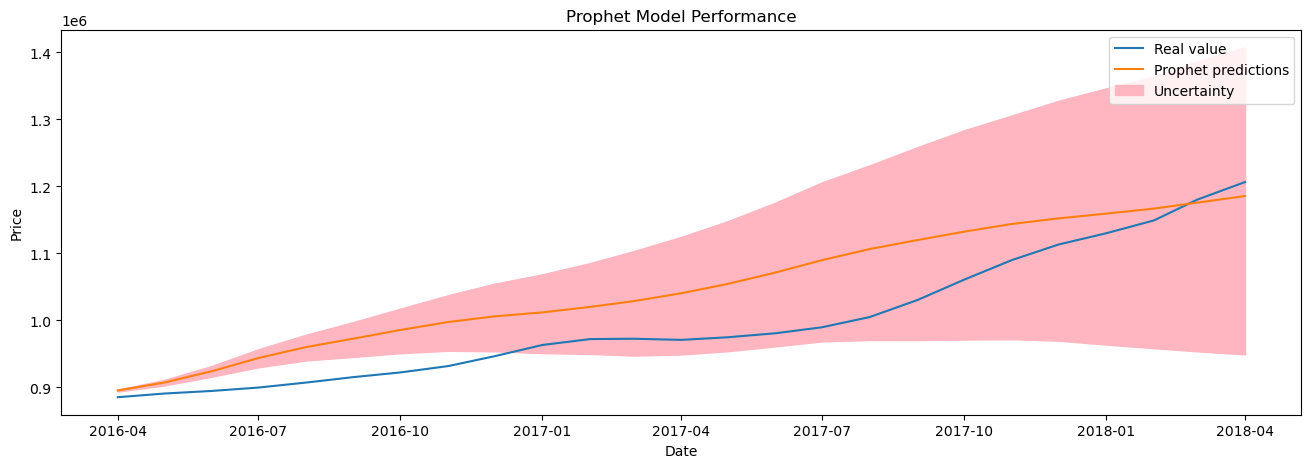
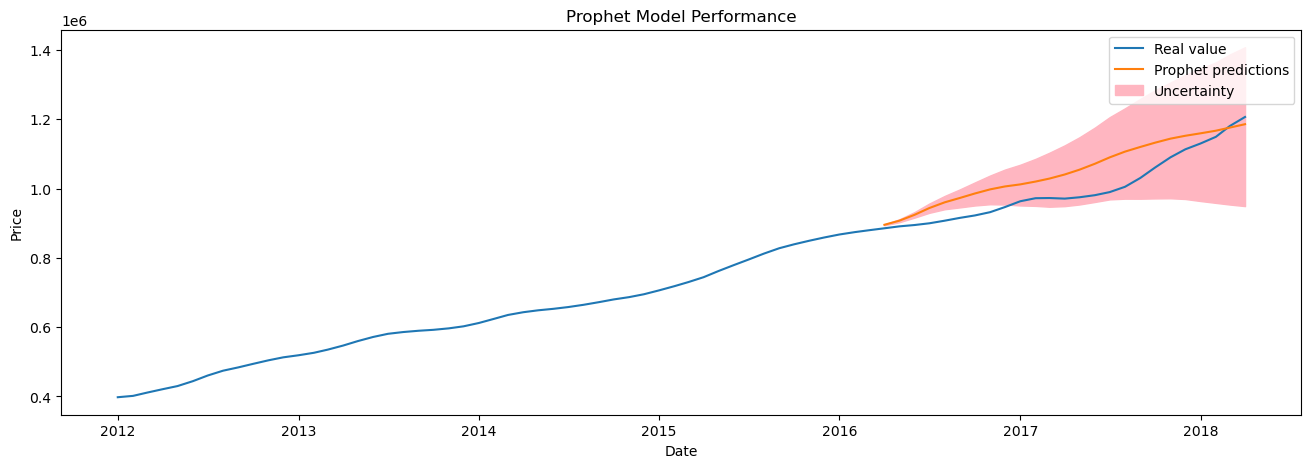
updated readme

diff --git a/README.md b/README.md
@@ -44,7 +44,7 @@ The csv file was loaded into a dataframe and all unnecessary rows were removed. 
 
 The zipcode with the highest 2012-2018 %ROI, 94089, was chosen as the zipcode to explore modeling. The last 2 years were witheld from from the training models and used as test data to evaluate model performance. First, a SARIMA (Seasonal Autoregressive Integrated Moving Average) model on the zipcode 94089 was examined. An auto-ARIMA was run to generate optimal parameter values for the SARIMA model. The SARIMA model was then used to predict values from the last 2 years, and those predictions were compared with the actual values in order to evaluate how well the model performed. Then, a similar approach was used to run a Prophet model, whose performance was evaluated by comparing predicted prices with the actual observed values. Since both models take care of trends and seasonality, it was not necessary to make the input data stationary. 
 
-For this dataset, the Prophet model (RMSE of \\$59,000) was considerably higher performing than the SARIMA model (RMSE \\$73,000). Additionally, the confidence interval was slightly narrower for the Prophet model, indicating less uncertainty.
+For this dataset, the Prophet model (RMSE of \$59,000) was considerably higher performing than the SARIMA model (RMSE \$73,000). Additionally, the confidence interval was slightly narrower for the Prophet model, indicating less uncertainty.
 
 
 (sarima eval) ![outcomes](https://github.com/lalynjay/Time_series_analysis/blob/main/images/sarima_eval.png)
@@ -58,19 +58,21 @@ Evaluation of the Prophet model. Overall it performed better.
 
 # Forecasting
 
-I will now calculate the 3 year forecast, along with confidence intervals, for zipcode 94089 using the SARIMA model from above. A linnear upward trend is predicted. The confidence interval is relatively narrow for the first year, but widens considerably by the end of the forecast time period. Even if actual values are on the low end of forecast values, these is still growth predicted in the near future. 
-Using the SARIMA model that was used to predict and forecast future values for 94089 on all relevant zipcodes. The zipcode and corresponding forecasted 3 year ROI were stored in a list, which was sorted and used to make conclusions.
+The 3 year forecast, along with confidence intervals, was then calcultated for zipcode 94089 using the Prophet model from above. A linnear upward trend is predicted. The confidence interval is relatively narrow for the first year, but widens considerably by the end of the forecast time period. Even if actual values are on the low end of forecast values, these is still growth predicted in the near future. 
+The Prophet model was then used to forecast future values for all relevant zipcodes. The zipcode and corresponding forecasted 3 year ROI were stored in a list, which was sorted and used to make conclusions.
 
 (prophet forecast) ![outcomes](https://github.com/lalynjay/Time_series_analysis/blob/main//images/proph_forecast.png)
 
 
 # Recommendations
 
-The zipcodes forecasted to have the highest ROI in the next 3 years are 94086, 95008, 95134, 95117, and 95118. Forecasted 3 year ROI for the top 5 zipcodes range between 51% and 55%. All 5 zipcodes had an average 2018 home value between roughly \\$1.3 and \\$1.9 million, possibly indicating the zipcodes already on the higher end of the price rance are forecasted to grow even more. Sunnyvale had only 2 zipcodes represented, yet one of them was the highest forecasted %ROI. The rest of the zipcodes belonged to San Jose.
+The zipcodes forecasted to have the highest ROI in the next 3 years are 94086, 95008, 95134, 95117, and 95118. Forecasted 3 year ROI for the top 5 zipcodes ranged between 51% and 55%. All 5 zipcodes had an average 2018 home value between roughly \$1.3 and \$1.9 million, possibly indicating the zipcodes already on the higher end of the price rance are forecasted to grow even more. Sunnyvale had only 2 zipcodes represented, yet one of them was the highest forecasted %ROI. The rest of the zipcodes belonged to San Jose.
 
 (top 5) ![outcomes](https://github.com/lalynjay/Time_series_analysis/blob/main//images/top5_ROI.png)
 
 # Conclusions
+
+Given the growth the area has seen in the last decade, any of the above 5 zipcodes would be a good investment choice. A brief summary about each zipcode is provided below. Statistics sourced from https://www.zipdatamaps.com/   
 
 ## Zipcode 94086:
 - Predicted to grow by 55%
@@ -104,6 +106,7 @@ The zipcodes forecasted to have the highest ROI in the next 3 years are 94086, 9
 
 (map) ![outcomes](https://github.com/lalynjay/Time_series_analysis/blob/main/images/map.png)
 
+Relative location of the top 5 zipcodes
 
 # Next Steps and Limitations:
 
